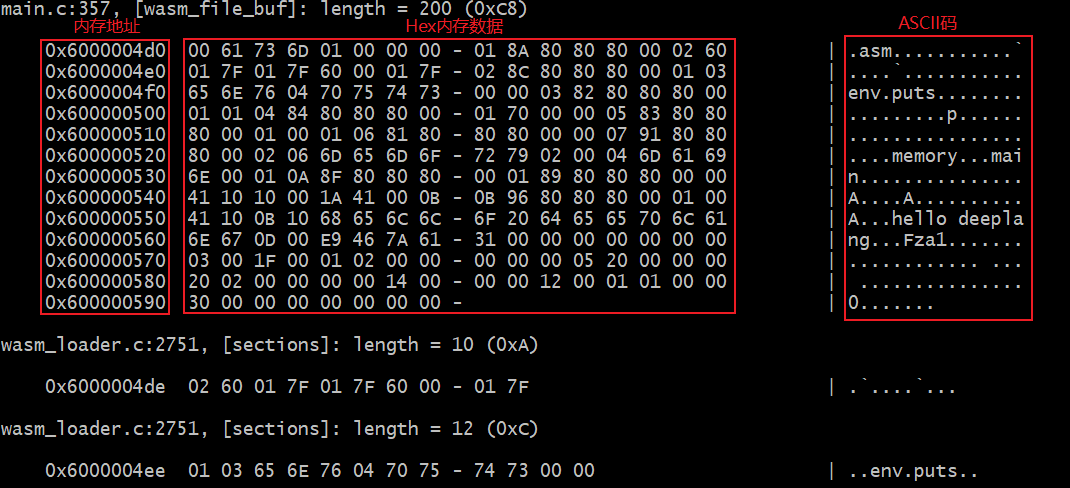
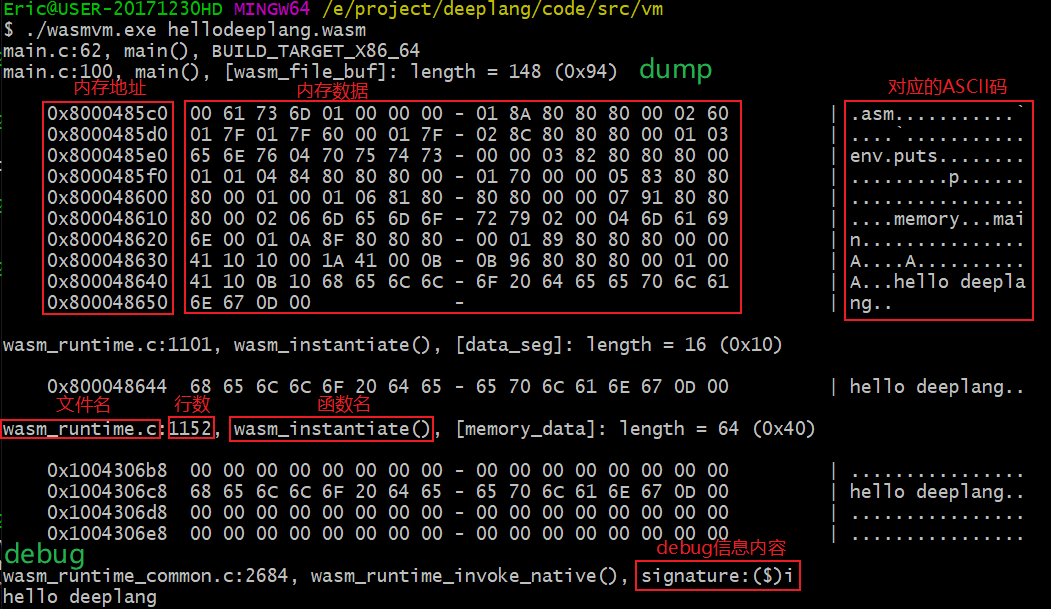
add function name in debug/dump info

diff --git a/log.c b/log.c
@@ -27,25 +27,25 @@ Description: dump/debug funtions for logs.
 
 #include "log.h"
 
-void log_printf (const char* pLogTag, unsigned int uiLine, char *LogFmtBuf, ...)
+void log_printf (const char* pFileName, unsigned int uiLine, const char* pFnucName, char *LogFmtBuf, ...)
 {
 	va_list args;
-	if(pLogTag == NULL || uiLine == 0 || LogFmtBuf == NULL)
+	if(pFileName == NULL || uiLine == 0 || LogFmtBuf == NULL)
 	{
 		return ;
 	}
     char logbuf[256];
 	memset (logbuf,'\0',256);
-	sprintf (logbuf,"%s:%d, ", pLogTag, uiLine);	
+	sprintf (logbuf,"%s:%d, %s(), ", pFileName, uiLine, pFnucName);	
 	printf ("%s",logbuf);
 	memset (logbuf,'\0',256);
 	va_start (args, LogFmtBuf);
 	vsnprintf (logbuf, 256, LogFmtBuf, args); 
 	va_end (args);
-	printf ("%s",logbuf);
+	printf ("%s\r\n",logbuf);
 }
 
-void log_data(const char *pLogTag, unsigned int uiLine, const char *pcStr,unsigned char *pucBuf,unsigned int usLen)
+void log_data(const char *pFileName, unsigned int uiLine, const char* pFnucName, const char *pcStr,unsigned char *pucBuf,unsigned int usLen)
 {
     unsigned int i;
     unsigned char acTmp[17];
@@ -54,8 +54,7 @@ void log_data(const char *pLogTag, unsigned int uiLine, const char *pcStr,unsign
 
     if(pcStr)
     {
-        log_printf (pLogTag, uiLine,"[%s]: length = %d (0x%X)\r\n",pcStr, usLen, usLen);
-        printf("\r\n");
+        log_printf (pFileName, uiLine, pFnucName, "[%s]: length = %d (0x%X)\r\n",pcStr, usLen, usLen);
     }
     if(usLen == 0)
     {

diff --git a/log.h b/log.h
@@ -34,10 +34,10 @@ extern "C" {
 #endif
 
 
-void log_printf (const char* pLogTag, unsigned int uiLine, char *LogFmtBuf, ...);
-void log_data(const char *pLogTag, unsigned int uiLine, const char *pcStr,unsigned char *pucBuf,unsigned int usLen);
-#define debug(...) 							log_printf(__FILE__, __LINE__,__VA_ARGS__)
-#define dump(pcStr,pucBuf,usLen)			log_data(__FILE__, __LINE__,pcStr,pucBuf,usLen)
+void log_printf (const char* pFileName, unsigned int uiLine, const char* pFuncName,char *LogFmtBuf, ...);
+void log_data(const char *pFileName, unsigned int uiLine, const char* pFuncName, const char *pcStr,unsigned char *pucBuf,unsigned int usLen);
+#define debug(...) 							log_printf(__FILE__, __LINE__,__FUNCTION__,__VA_ARGS__)
+#define dump(pcStr,pucBuf,usLen)			log_data(__FILE__, __LINE__,__FUNCTION__,pcStr,pucBuf,usLen)
 
 
 

diff --git a/README.md b/README.md
@@ -6,10 +6,10 @@
 ```c
 /* 接口示例 */
 dump ("wasm_file_buf", wasm_file_buf, wasm_file_size);
-debug ("wasm_file_buf size = %d\r\n", wasm_file_size);
+debug ("signature:%s",signature);
 ```
 
 **示例截图：**
 
-![dump](./img/1.png)
+![dump](img/1.png)
 
